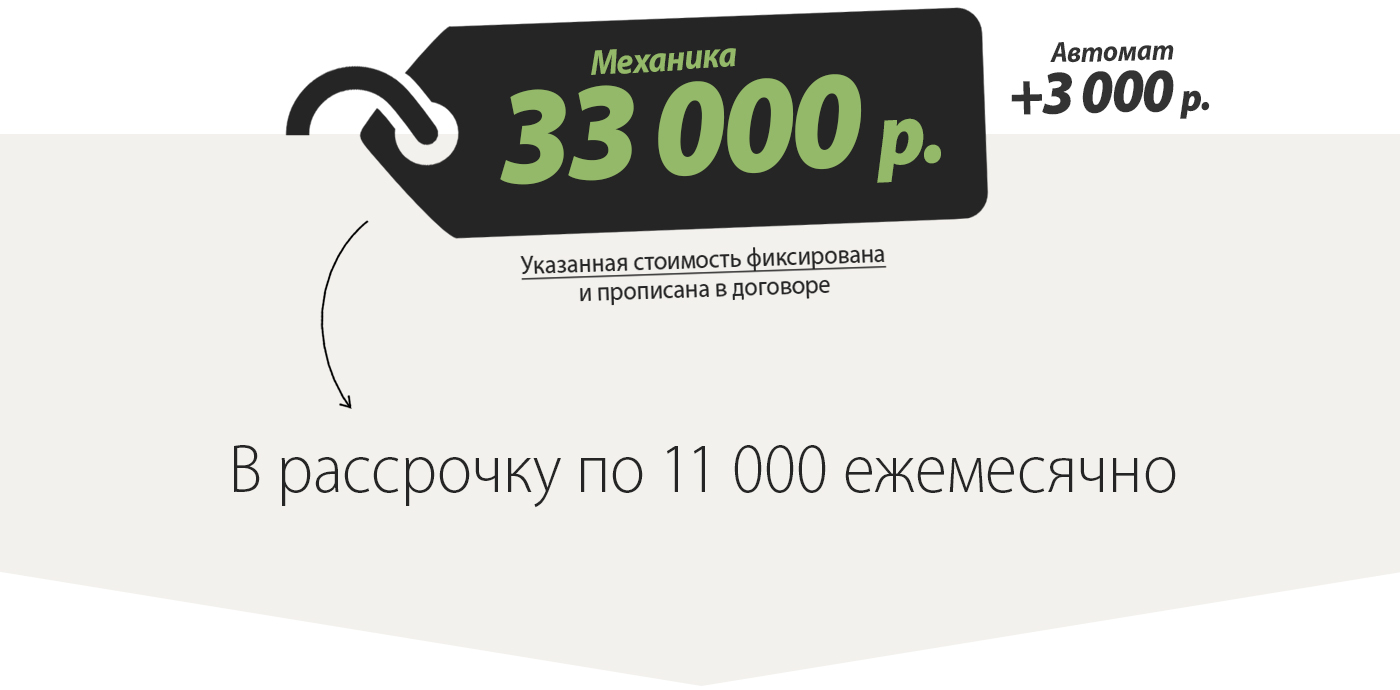
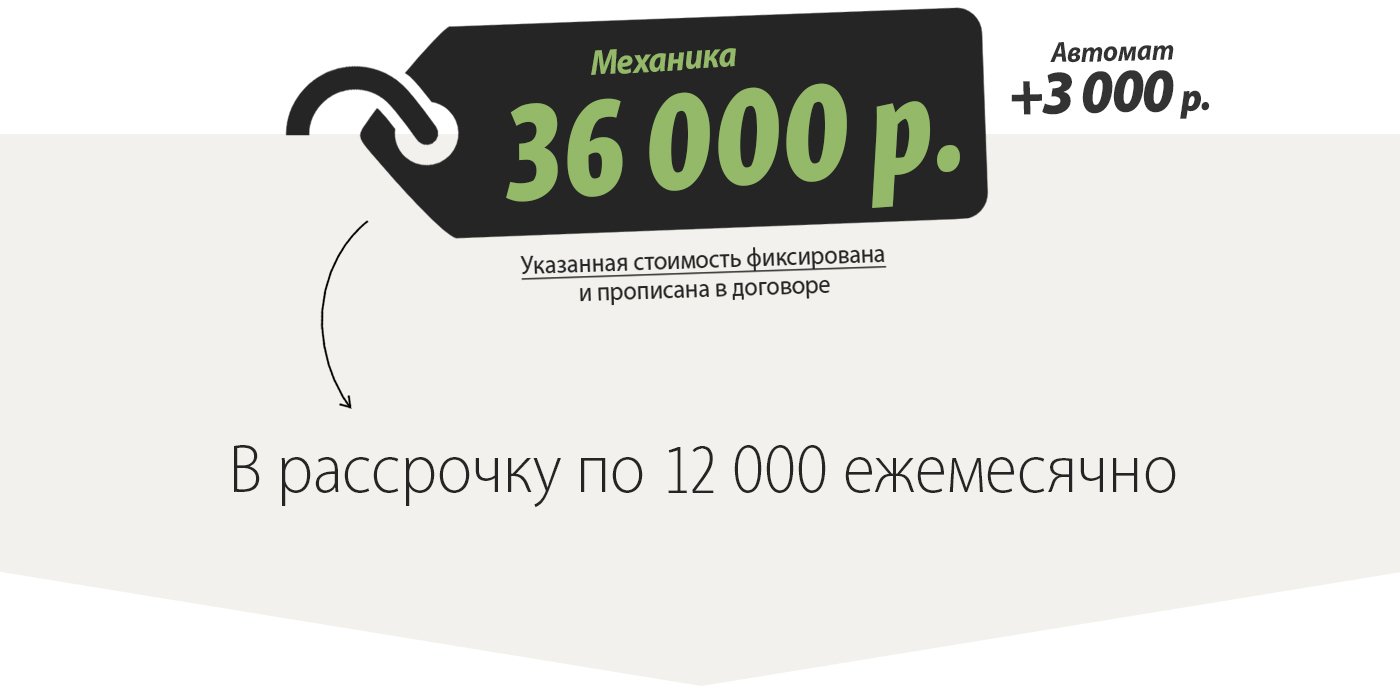
feedback fix

Changed region(s): [[0.3379, 0.0913, 0.7064, 0.3043], [0.4607, 0.6391, 0.5221, 0.7304]]

diff --git a/www/prices/index.php b/www/prices/index.php
@@ -3,71 +3,110 @@ require($_SERVER["DOCUMENT_ROOT"]."/bitrix/header.php");
 $APPLICATION->SetPageProperty("keywords_inner", "автошкола цена, обучение в автошколе цена, автошкола в москве цены, цена учебы в автошколе, автошкола цена сроки, сроки цены обучения автошколе, обучение в автошколе цена москва, сайт автошколы цены, автошкола в москве категория в цены, новые цены автошкола");
 $APPLICATION->SetPageProperty("title", "Цены в автошколе Аспект. Цены на обучение в автошколе");
 $APPLICATION->SetPageProperty("keywords", "автошкола цена, обучение в автошколе цена, автошкола в москве цены, цена учебы в автошколе, автошкола цена сроки, сроки цены обучения автошколе, обучение в автошколе цена москва, сайт автошколы цены, автошкола в москве категория в цены, новые цены автошкола");
-$APPLICATION->SetPageProperty("description", "Самые низкие цены на обучение в автошколе Москвы на категорию A, B и C. Скидки на курсы вождения - цена учебы в автошколе всего 33 000 рублей! Узнай новые цены автошкола прямо сейчас!");
+$APPLICATION->SetPageProperty("description", "Самые низкие цены на обучение в автошколе Москвы на категорию A, B и C. Скидки на курсы вождения - цена учебы в автошколе всего 36 000 рублей! Узнай новые цены автошкола прямо сейчас!");
 $APPLICATION->SetTitle("Цены");
-?>
-
-    <div class="pbs-main-wrapper" style="overflow-x: visible;"><p style="margin-bottom: 9px;">Цены актуальны до 28.06.2017 г.</p>
-        <div class="pbs-row" data-width="full-width-retain-content" style="min-height: 200px; position: relative; padding-top: 0px !important; padding-bottom: 0px !important; margin-top: 0px !important; margin-bottom: 0px !important; margin-left: 0px; margin-right: 0px; ">
-            <div class="pbs-col" style="flex-basis: 56.5043%; padding: 0px !important; margin: 0px !important;  margin-left: 0px !important;">
-                <p><img src="/upload/images/page/sovs2.jpg" alt="стоимость обучения в автошколе аспект" width="1514" height="1112" class="alignnone size-full wp-image-932" srcset="/upload/images/page/sovs2.jpg 1514w, /upload/images/page/sovs2.jpg 300w, /upload/images/page/sovs2.jpg 768w, /upload/images/page/sovs2.jpg 1024w" sizes="(max-width: 1514px) 100vw, 1514px">
-                </p></div>
-            <div class="pbs-col" style="flex-basis: 21.9409%; padding-bottom: 30px; padding-top: 0px !important; padding-right: 0px !important; padding-left: 0px !important; margin: 0px !important;">
-                <p><img alt="в стоимость обучения включено" src="/upload/images/page/в-стоимость-обучения-включено-1.png"></p>
-            </div>
-            <div class="pbs-col" style="flex-basis: 21.5548%; padding: 0px !important; margin: 0px !important;">
-                <p style="margin-bottom: 25px;"><img src="/upload/images/page/avtoshkola-ceny-na-obuchenie-.jpg"></p>
-            </div>
-        </div>
-        <div class="pbs-row" style="min-height: 200px; padding: 0px !important; margin: 0px !important;">
-            <div class="pbs-col" style="flex-basis: 25%; padding-bottom: 30px !important; padding-top: 0px !important; padding-left: 0px !important; padding-right: 0px !important;">
-                <p><img src="/upload/images/page/poovs1.jpg" alt="" width="500" height="523" class="alignnone size-full wp-image-934" srcset="/upload/images/page/poovs1.jpg 500w, /upload/images/page/poovs1.jpg 287w" sizes="(max-width: 500px) 100vw, 500px"></p>
-            </div>
-            <div class="pbs-col" style="flex-basis: 25%; padding-bottom: 30px !important; padding-top: 0px !important; padding-left: 0px !important; padding-right: 0px !important; margin-left: 30px; margin-right: 15px;">
-                <p><img alt="Скидка студентам" class="aligncenter size-full wp-image-363" height="523" src="/upload/images/page/ss1.png" width="500" srcset="/upload/images/page/ss1.png 500w, /upload/images/page/ss1.png 287w" sizes="(max-width: 500px) 100vw, 500px"></p>
-            </div>
-            <div class="pbs-col dn" style="flex-basis: 25%; padding-bottom: 30px !important; padding-top: 0px !important; padding-left: 0px !important; padding-right: 0px !important; margin-left: 15px; margin-right: 30px;">
-                <p><img alt="стоимость мед справки для автошколы" class="aligncenter size-full wp-image-152" height="523" src="/upload/images/page/smsdas1.jpg" width="500" srcset="/upload/images/page/smsdas1.jpg 500w, /upload/images/page/smsdas1.jpg 287w" sizes="(max-width: 500px) 100vw, 500px"></p>
-            </div>
-            <div class="pbs-col" style="flex-basis: 25%; padding-bottom: 30px !important; padding-top: 0px !important; padding-left: 0px !important; padding-right: 0px !important;">
-                <p><img alt="стоимость сопровождения в ГИБДД" class="aligncenter size-full wp-image-155" height="523" src="/upload/images/page/ssvgbdd1.jpg" width="500" srcset="/upload/images/page/ssvgbdd1.jpg 500w, /upload/images/page/ssvgbdd1.jpg 287w" sizes="(max-width: 500px) 100vw, 500px"></p>
-            </div>
-        </div>
-        <p><img alt="Узнайте о стоимости обучения позвонив нам" class="size-full wp-image-371 aligncenter" height="271" src="/upload/images/page/usupkn1.png" style="margin-top: 10px;" width="407" srcset="/upload/images/page/usupkn1.png 407w, /upload/images/page/usupkn1.png 300w" sizes="(max-width: 407px) 100vw, 407px"></p>
-        <h3 style="text-align: center; margin-top: 6px;">  +7 (495) 782 30 25  </h3>
-
-        <p>Автошкола «Аспект» - команда квалифицированных и опытных специалистов, готовых помочь освоить мастерство управления транспортными средствами по выгодным расценкам. Выгодное предложение от автошколы – это заказ пакета «Все включено», куда входит теория, практика, а также сдача экзамена.</p>
-        <p>Что входит в стоимость?</p>
-        <ul>
-            <p>При выборе автошколы цена за оказываемые услуги, приятно порадует доступностью. Особенно выгодной она становится, если учесть, что предлагаемая цена обучения в автошколе включает все требуемые составляющие:<p>
-            <li>теория – в течение 134 часов ученики будут знакомиться с теоретическим материалом;</li>
-            <li>практика – на протяжении 56 часов предлагается оттачивать теорию непосредственно в деле – в процессе управления автомобилем под строгим контролем опытного инструктора;</li>
-            <li>литература – для обучения предоставляются все требуемые книги;</li>
-            <li>бензин – во время практики автомобили заправляются необходимым количеством топлива;</li>
-            <li>страховка – страхование ответственности при поездках на авто;</li>
-            <li>автотренажер – помогает получить начальные навыки управления транспортным средством;</li>
-            <li>пересдача экзаменов – при необходимости пересдать экзамены можно бесплатно;</li>
-            <li>сопровождение – предусматривается на экзаменах в ГИБДД;</li>
-            <li>рассрочка – оплачивать всю сумму предлагается в несколько платежей;</li>
-            <li>академический отпуск – при надобности можно воспользоваться данной услугой.</li>
-        </ul>
-        <p>Общая стоимость полного курса по обучению управления механикой составляет 33 000 рублей. Если требуется обучение управлению на автомате, предстоит доплатить еще 3 000 рублей.</p>
-        <p>По всем возникающим вопросам предлагается получить профессиональные консультации сотрудников. С ними можно связаться по телефону, чтобы узнать, какие автошкола цены и сроки обучения предлагает, а также получить ответы на другие вопросы.</p>
-        <h3>Специальные предложения</h3>
-        <p> Автошкола в Москве цены на полный пакет услуг приготовила невысокие, что делает обучение здесь доступным для всех желающих освоить мастерство управления разными категориями транспортных средств, а также в дальнейшем успешно сдать экзамен, получив права.</p>
-        <p>Выгодные условия ждут студентов. Этой категории учеников предоставляется скидка 2000 рублей, делающая обучение еще более выгодным и доступным.</p>
-        <p>Цена учебы в автошколе может быть дополнительно снижена, если воспользоваться выгодным предложением от автошколы. Необходимо привести друга, который также запишется на обучение, чтобы получить скидку в размере 3000 рублей.</p>
-        <h3>Выгодная цена за качественные услуги</h3>
-        <ul>
-            <p>К преимуществам обучения в автошколе «Аспект» следует отнести такие выгоды:</p>
-            <li>невысокая цена за полный комплекс услуг;</li>
-            <li>специальные предложения;;</li>
-            <li>поэтапная оплата всей стоимости;;</li>
-            <li>качественная теоритическая и практическая подготовка;;</li>
-            <li>работа с квалифицированными специалистами, опытными инструкторами.;</li>
-        </ul>
-        <p>Благодаря таким моментам каждый ученик можно быстро, легко и недорого научиться управлять машиной, получить права, успешно сдав экзамен.</p>
-    </div>
-
-
-<?require($_SERVER["DOCUMENT_ROOT"]."/bitrix/footer.php");?>
+?><div class="pbs-main-wrapper" style="overflow-x: visible;">
+	<p style="margin-bottom: 9px;">
+		 Цены актуальны до 28.06.2017 г.
+	</p>
+	<div class="pbs-row" data-width="full-width-retain-content" style="min-height: 200px; position: relative; padding-top: 0px !important; padding-bottom: 0px !important; margin-top: 0px !important; margin-bottom: 0px !important; margin-left: 0px; margin-right: 0px; ">
+		<div class="pbs-col" style="flex-basis: 56.5043%; padding: 0px !important; margin: 0px !important; margin-left: 0px !important;">
+			<p>
+ <img width="1514" alt="стоимость обучения в автошколе аспект" src="/upload/images/page/sovs2.jpg" height="1112" class="alignnone size-full wp-image-932" srcset="/upload/images/page/sovs2.jpg 1514w, /upload/images/page/sovs2.jpg 300w, /upload/images/page/sovs2.jpg 768w, /upload/images/page/sovs2.jpg 1024w" sizes="(max-width: 1514px) 100vw, 1514px">
+			</p>
+		</div>
+		<div class="pbs-col" style="flex-basis: 21.9409%; padding-bottom: 30px; padding-top: 0px !important; padding-right: 0px !important; padding-left: 0px !important; margin: 0px !important;">
+			<p>
+ <img alt="в стоимость обучения включено" src="/upload/images/page/в-стоимость-обучения-включено-1.png">
+			</p>
+		</div>
+		<div class="pbs-col" style="flex-basis: 21.5548%; padding: 0px !important; margin: 0px !important;">
+			<p style="margin-bottom: 25px;">
+ <img src="/upload/images/page/avtoshkola-ceny-na-obuchenie-.jpg">
+			</p>
+		</div>
+	</div>
+	<div class="pbs-row" style="min-height: 200px; padding: 0px !important; margin: 0px !important;">
+		<div class="pbs-col" style="flex-basis: 25%; padding-bottom: 30px !important; padding-top: 0px !important; padding-left: 0px !important; padding-right: 0px !important;">
+			<p>
+ <img width="500" src="/upload/images/page/poovs1.jpg" height="523" alt="" class="alignnone size-full wp-image-934" srcset="/upload/images/page/poovs1.jpg 500w, /upload/images/page/poovs1.jpg 287w" sizes="(max-width: 500px) 100vw, 500px">
+			</p>
+		</div>
+		<div class="pbs-col" style="flex-basis: 25%; padding-bottom: 30px !important; padding-top: 0px !important; padding-left: 0px !important; padding-right: 0px !important; margin-left: 30px; margin-right: 15px;">
+			<p>
+ <img width="500" alt="Скидка студентам" src="/upload/images/page/ss1.png" height="523" class="aligncenter size-full wp-image-363" srcset="/upload/images/page/ss1.png 500w, /upload/images/page/ss1.png 287w" sizes="(max-width: 500px) 100vw, 500px">
+			</p>
+		</div>
+		<div class="pbs-col dn" style="flex-basis: 25%; padding-bottom: 30px !important; padding-top: 0px !important; padding-left: 0px !important; padding-right: 0px !important; margin-left: 15px; margin-right: 30px;">
+			<p>
+ <img width="500" alt="стоимость мед справки для автошколы" src="/upload/images/page/smsdas1.jpg" height="523" class="aligncenter size-full wp-image-152" srcset="/upload/images/page/smsdas1.jpg 500w, /upload/images/page/smsdas1.jpg 287w" sizes="(max-width: 500px) 100vw, 500px">
+			</p>
+		</div>
+		<div class="pbs-col" style="flex-basis: 25%; padding-bottom: 30px !important; padding-top: 0px !important; padding-left: 0px !important; padding-right: 0px !important;">
+			<p>
+ <img width="500" alt="стоимость сопровождения в ГИБДД" src="/upload/images/page/ssvgbdd1.jpg" height="523" class="aligncenter size-full wp-image-155" srcset="/upload/images/page/ssvgbdd1.jpg 500w, /upload/images/page/ssvgbdd1.jpg 287w" sizes="(max-width: 500px) 100vw, 500px">
+			</p>
+		</div>
+	</div>
+	<p>
+ <img width="407" alt="Узнайте о стоимости обучения позвонив нам" src="/upload/images/page/usupkn1.png" height="271" class="size-full wp-image-371 aligncenter" style="margin-top: 10px;" srcset="/upload/images/page/usupkn1.png 407w, /upload/images/page/usupkn1.png 300w" sizes="(max-width: 407px) 100vw, 407px">
+	</p>
+	<h3 style="text-align: center; margin-top: 6px;"> +7 (495) 782 30 25 </h3>
+	<p>
+		 Автошкола «Аспект» - команда квалифицированных и опытных специалистов, готовых помочь освоить мастерство управления транспортными средствами по выгодным расценкам. Выгодное предложение от автошколы – это заказ пакета «Все включено», куда входит теория, практика, а также сдача экзамена. Если вам нужен&nbsp;<a title="автоинструктор, проспект Вернадского" href="https://drivingschool.moscow/prices/">автоинструктор, проспект Вернадского</a>&nbsp;может стать для вас первым практическим полигоном.
+	</p>
+	<p>
+		 Что входит в стоимость?
+	</p>
+	<ul>
+		<p>
+			 При выборе автошколы цена за оказываемые услуги, приятно порадует доступностью. Особенно выгодной она становится, если учесть, что предлагаемая цена обучения в автошколе включает все требуемые составляющие:
+		</p>
+		<p>
+		</p>
+		<li>теория – в течение 134 часов ученики будут знакомиться с теоретическим материалом;</li>
+		<li>практика – на протяжении 56 часов предлагается оттачивать теорию непосредственно в деле – в процессе управления автомобилем под строгим контролем опытного инструктора;</li>
+		<li>литература – для обучения предоставляются все требуемые книги;</li>
+		<li>бензин – во время практики автомобили заправляются необходимым количеством топлива;</li>
+		<li>страховка – страхование ответственности при поездках на авто;</li>
+		<li>автотренажер – помогает получить начальные навыки управления транспортным средством;</li>
+		<li>пересдача экзаменов – при необходимости пересдать экзамены можно бесплатно;</li>
+		<li>сопровождение – предусматривается на экзаменах в ГИБДД;</li>
+		<li>рассрочка – оплачивать всю сумму предлагается в несколько платежей;</li>
+		<li>академический отпуск – при надобности можно воспользоваться данной услугой.</li>
+	</ul>
+	<p>
+		 Общая стоимость полного курса по обучению управления механикой составляет 36 000 рублей. Если требуется обучение управлению на автомате, предстоит доплатить еще 3 000 рублей.&nbsp;
+	</p>
+	<p>
+		 По всем возникающим вопросам предлагается получить профессиональные консультации сотрудников. С ними можно связаться по телефону, чтобы узнать, какие автошкола цены и сроки обучения предлагает, а также получить ответы на другие вопросы. Прочитайте какие еще есть <a title="популярные вопросы по автошколе" href="https://drivingschool.moscow/questions_and_answers/">популярные вопросы по автошколе</a>.
+	</p>
+	<h3>Специальные предложения</h3>
+	<p>
+		 Автошкола в Москве цены на полный пакет услуг приготовила невысокие, что делает обучение здесь доступным для всех желающих освоить мастерство управления разными категориями транспортных средств, а также в дальнейшем успешно сдать экзамен, получив права.&nbsp;
+	</p>
+	<p>
+		 Выгодные условия ждут студентов. Этой категории учеников предоставляется скидка 2000 рублей, делающая обучение еще более выгодным и доступным.
+	</p>
+	<p>
+		 Цена учебы в автошколе может быть дополнительно снижена, если воспользоваться выгодным предложением от автошколы. Необходимо привести друга, который также запишется на обучение, чтобы получить скидку в размере 3000 рублей.
+	</p>
+	<p>
+		Если не можете определиться какая именно вам нужна <a title="автошкола, цены и отзывы" href="https://drivingschool.moscow/reviews/">автошкола, цены и отзывы</a> на нашем сайте&nbsp;помогут вам развеять последние сомнения.
+	</p>
+	<h3>Выгодная цена за качественные услуги</h3>
+	<ul>
+		<p>
+			 К преимуществам <a title="обучение в автошколе «Аспект»" href="https://drivingschool.moscow/">обучения в автошколе «Аспект»</a> следует отнести такие выгоды:
+		</p>
+		<li>невысокая цена за полный комплекс услуг;</li>
+		<li>специальные предложения;;</li>
+		<li>поэтапная оплата всей стоимости;;</li>
+		<li>качественная теоритическая и практическая подготовка;;</li>
+		<li>работа с квалифицированными специалистами, опытными инструкторами.;</li>
+	</ul>
+	<p>
+		 Благодаря таким моментам каждый ученик можно быстро, легко и недорого научиться управлять машиной, получить права, успешно сдав экзамен.
+	</p>
+</div>
+ <br><?require($_SERVER["DOCUMENT_ROOT"]."/bitrix/footer.php");?>

diff --git a/www/how_to_apply/index.php b/www/how_to_apply/index.php
@@ -32,7 +32,7 @@ $APPLICATION->SetTitle("Как записаться");
 	<p>
 		<strong>Важно:</strong> К практическим занятиям учащиеся допускаются только при наличии медицинской справки.
 	</p>
-	<div class="pbs-row" data-width="full-width" style="min-height: 582px; position: relative; margin-top: 55px; margin-left: 0px; margin-right: 0px; ">
+	<!--<div class="pbs-row" data-width="full-width" style="min-height: 582px; position: relative; margin-top: 55px; margin-left: 0px; margin-right: 0px; ">
 		<div class="pbs-col" style="flex-basis: 15.1777%; padding-right: 8px;">
 			<p data-placeholder="Click here to add text">
 			</p>
@@ -64,7 +64,8 @@ $APPLICATION->SetTitle("Как записаться");
                         <a href="javascript:void(0)" class="btn_feedback">Отправить</a>
                     </p>
                     <div class="wpcf7-response-output wpcf7-display-none"></div>
-                </form>
+                </form>>
+		<
 			</div>
 		</div>
 		<div class="pbs-col" style="flex-basis: 26.8668%;">
@@ -72,5 +73,15 @@ $APPLICATION->SetTitle("Как записаться");
 			</p>
 		</div>
 
-    </div>
+    </div>-->
+    <script id="bx24_form_inline" data-skip-moving="true">
+        (function(w,d,u,b){w['Bitrix24FormObject']=b;w[b] = w[b] || function(){arguments[0].ref=u;
+                (w[b].forms=w[b].forms||[]).push(arguments[0])};
+            if(w[b]['forms']) return;
+            s=d.createElement('script');r=1*new Date();s.async=1;s.src=u+'?'+r;
+            h=d.getElementsByTagName('script')[0];h.parentNode.insertBefore(s,h);
+        })(window,document,'https://drivingschool.bitrix24.ru/bitrix/js/crm/form_loader.js','b24form');
+
+        b24form({"id":"8","lang":"ru","sec":"0ww1jn","type":"inline"});
+    </script>
 </div><?require($_SERVER["DOCUMENT_ROOT"]."/bitrix/footer.php");?>

diff --git a/www/about/main/index.php b/www/about/main/index.php
@@ -1,8 +1,8 @@
 <?
 require($_SERVER["DOCUMENT_ROOT"]."/bitrix/header.php");
 $APPLICATION->SetTitle("Основные сведения");
-?>
-
-Text here....
-
-<?require($_SERVER["DOCUMENT_ROOT"]."/bitrix/footer.php");?>
+?><?$APPLICATION->IncludeComponent(
+	"bitrix:breadcrumb",
+	"",
+Array()
+);?>Text here....<?require($_SERVER["DOCUMENT_ROOT"]."/bitrix/footer.php");?>

diff --git a/www/.top.menu.php b/www/.top.menu.php
@@ -8,6 +8,13 @@ $aMenuLinks = Array(
 		"" 
 	),
 	Array(
+		"Контакты", 
+		"/contacts/", 
+		Array(), 
+		Array(), 
+		"" 
+	),
+	Array(
 		"Цены", 
 		"/prices/", 
 		Array(), 
@@ -43,8 +50,8 @@ $aMenuLinks = Array(
 		"" 
 	),
 	Array(
-		"Контакты", 
-		"/contacts/", 
+		"Статьи", 
+		"/articles/", 
 		Array(), 
 		Array(), 
 		"" 

diff --git a/www/articles/index.php b/www/articles/index.php
@@ -1,6 +1,6 @@
 <?
 require($_SERVER["DOCUMENT_ROOT"]."/bitrix/header.php");
-$APPLICATION->SetTitle("Структура и органы управления организацией");
+$APPLICATION->SetTitle("Статьи");
 ?>
 
 Text here....

diff --git a/www/about/main/.section.php b/www/about/main/.section.php
@@ -1,5 +1,5 @@
 <?
-$sSectionName = "Новый раздел";
+$sSectionName = "Основные сведения";
 $arDirProperties = Array(
 
 );

diff --git a/www/articles/.section.php b/www/articles/.section.php
@@ -1,0 +1,6 @@
+<?
+$sSectionName = "Статьи";
+$arDirProperties = Array(
+
+);
+?>
